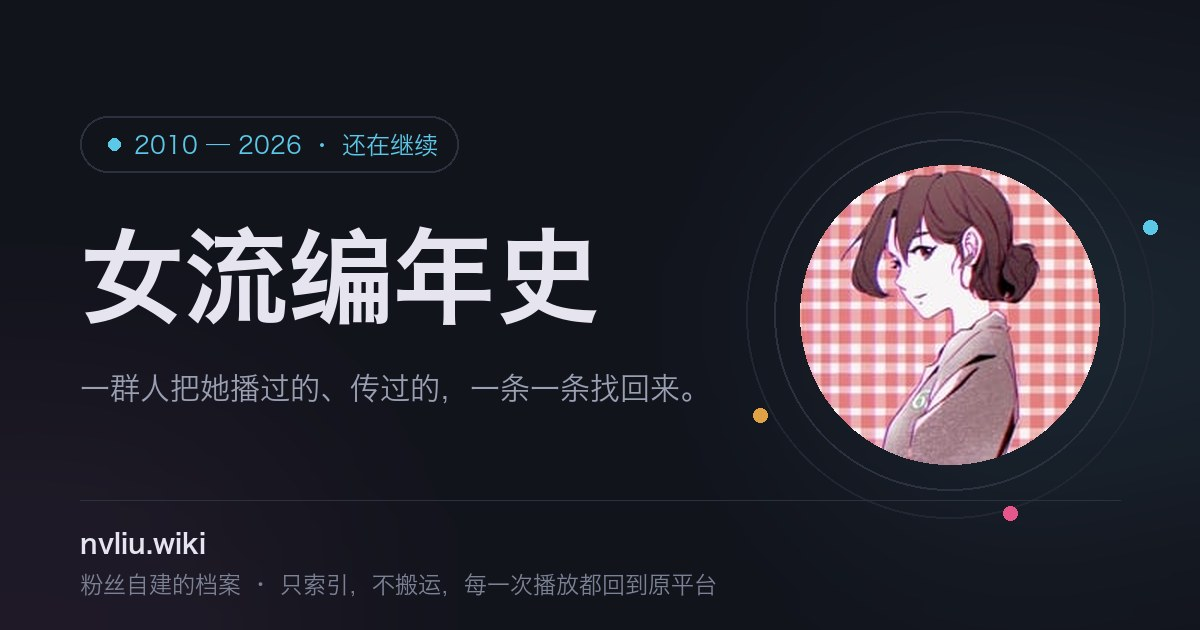
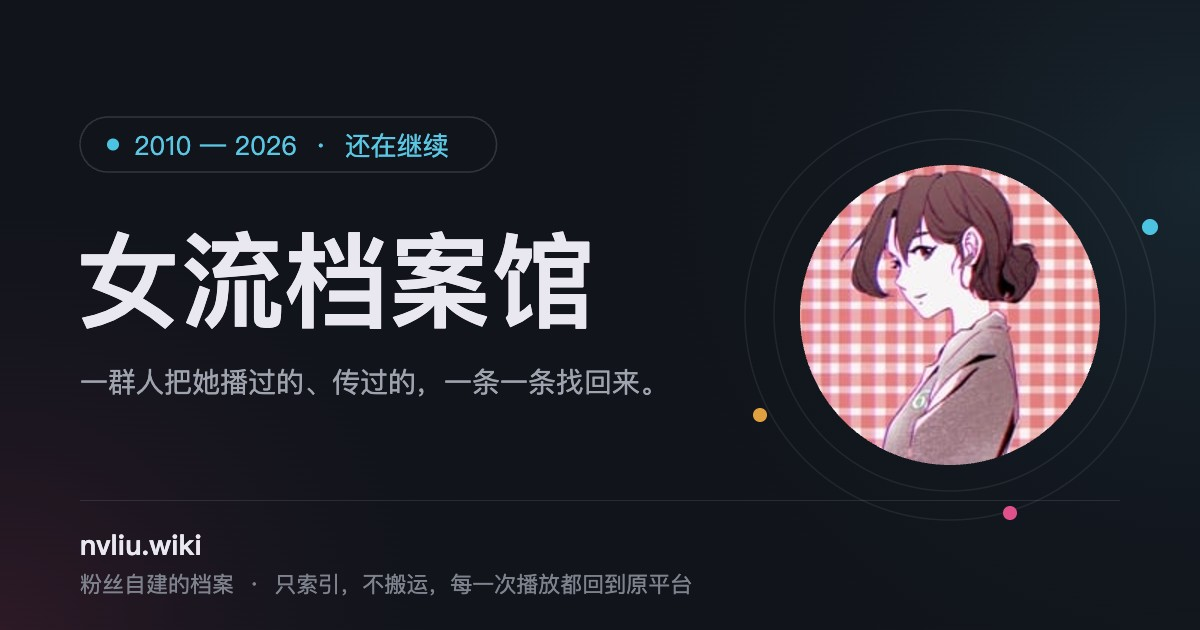
feat(brand): 站名改为「女流档案馆」，改由后台站点标题驱动
「女流编年史」作为站名过于郑重，像在为本人修史；站点实际是整理公开资料的
非官方数字档案。编年史 / Chronicle 栏目名不变，域名、路由、数据 schema 不变。

- 站名基线 SITE_NAME 与 site-copy 的 site.title 改为「女流档案馆」
- 页头、手机菜单、直播状态胶囊改读 site.title（后台改名即时生效）
- <title> 模板、og:site_name、分享卡片标题读发布时冻结的后台站名（site-name-build.ts）
- 默认分享图按新站名重画；没单独设图的页面改用首页分享图，后台可按新站名重新生成
- 站点简介改为「关于女流66的非官方数字档案馆……」
- README 写明站名与栏目名的区别

diff --git a/src/lib/page-metadata.ts b/src/lib/page-metadata.ts
@@ -1,6 +1,6 @@
 import type { Metadata } from 'next'
 import { siteUrl } from './site-url'
-import { SITE_NAME } from './site-name'
+import { BUILD_SITE_NAME } from './site-name-build'
 import type { ShareImage } from './share-image'
 import { getShareCardDescription, getShareCardImage } from './share-cards'
 
@@ -10,7 +10,7 @@ import { getShareCardDescription, getShareCardImage } from './share-cards'
  *
  * 从前只有 canonical 是各页自己写的，`title` 与 `description` 全都继承根 layout 的
  * 那一份——于是 `/chronicle/`、`/archive/`、`/games/` 的浏览器标签、收藏夹条目、
- * 搜索结果标题一字不差，全是「女流编年史」。同时全站一个 `og:` 标签都没有，
+ * 搜索结果标题一字不差，全是站名。同时全站一个 `og:` 标签都没有，
  * 链接贴到微信 / 微博 / QQ / B站动态里只会渲染成一条没有卡片的裸链。
  *
  * 这个函数把这四件事收在一处：给一个路径和一句人话，社交卡片自己长出来。
@@ -23,10 +23,11 @@ import { getShareCardDescription, getShareCardImage } from './share-cards'
  *
  * ## title 走根 layout 的 template
  *
- * 传进来的 `title` 是短名（「录播室」），根 layout 的 `%s · 女流编年史` 负责补站名。
+ * 传进来的 `title` 是短名（「录播室」），根 layout 的 `%s · 站名` 模板负责补站名。
  * `openGraph.title` 则要自己拼全称：社交卡片没有 template 这一层。
  */
-export { SITE_NAME }
+/** 构建期生效的站名：发布时冻结的后台站名，没有就是公开仓基线。 */
+export const SITE_NAME = BUILD_SITE_NAME
 
 /**
  * 站点级简介与分享卡片图的兜底值。
@@ -37,11 +38,12 @@ export { SITE_NAME }
  * 只是给 share-cards.ts 在两份数据文件缺失时兜底，同时也是这两份文件最初的取值来源。
  */
 export const SITE_DESCRIPTION =
-  '2010 年至今的视频与直播索引。只收录链接，不搬运资源——每一次播放都回到原平台。'
+  '关于女流66的非官方数字档案馆：整理散落在互联网中的录播、游戏、故事与记忆。只收录链接，不搬运资源——每一次播放都回到原平台。'
 
 /**
  * 全站默认社交卡片图兜底。1200×630，暗色底 + 站名 + 一句人话，不放任何统计数字。
- * 每个页面都能在后台「分享卡片」页面单独设自己的图；没单独设过的页面用这张。
+ * 每个页面都能在后台「分享卡片」页面单独设自己的图；没单独设过的页面用首页那张，
+ * 首页也没设过才用这张。站名印在图上：后台改站名时可以按新站名重新生成首页那张。
  */
 export const OG_IMAGE = '/images/og/site.jpg'
 
@@ -85,12 +87,12 @@ export function pageMetadata({
   const url = siteUrl(path)
   const fullTitle = title ? `${title} · ${SITE_NAME}` : SITE_NAME
   const shareDescription = shareId ? getShareCardDescription(shareId, description) : description
-  const configured = shareId ? getShareCardImage(shareId, OG_IMAGE) : null
-  // 后台单独设过图 > 内容自己的封面 > 全站默认图。
+  const configured = shareId ? getShareCardImage(shareId, CURRENT_HOME_OG_IMAGE) : null
+  // 后台单独设过图 > 内容自己的封面 > 首页的分享图（后台改站名时会重新生成它）> 仓库里那张兜底图。
   const picked: ShareImage =
-    configured && configured !== OG_IMAGE
+    configured && configured !== CURRENT_HOME_OG_IMAGE
       ? { url: configured, width: 1200, height: 630 }
-      : (cover ?? { url: OG_IMAGE, width: 1200, height: 630 })
+      : (cover ?? { url: CURRENT_HOME_OG_IMAGE, width: 1200, height: 630 })
   return {
     ...(title ? { title } : {}),
     description,

diff --git a/src/components/LiveContentProvider.tsx b/src/components/LiveContentProvider.tsx
@@ -257,12 +257,17 @@ export function useSectionEnabled(sectionId: string): boolean {
  *
  * 所以按页分开处理：
  * - 首页的 `<title>` 本来就是站名，整句替换；
- * - 其余页面的标题形如「录播室 · 女流编年史」，只把 template 补上去的那个站名后缀
+ * - 其余页面的标题形如「录播室 · 女流档案馆」，只把 template 补上去的那个站名后缀
  *   换成后台的新站名，页面自己那半截原样保留；
  * - `<meta name="description">` 只在首页覆盖——别的页面都有自己的简介
  *   （`pageMetadata()` 的 description 是必填参数），站点级那句盖上去只会更不准。
  */
-export function LiveDocumentMeta() {
+export function LiveDocumentMeta({
+  bakedSiteName = SITE_NAME,
+}: {
+  /** 构建时写进 `<title>` 模板的站名（发布时冻结的后台站名）；认后缀要用它，不是公开仓基线。 */
+  bakedSiteName?: string
+}) {
   const { copy } = useLiveContent()
   const pathname = usePathname()
 
@@ -276,7 +281,7 @@ export function LiveDocumentMeta() {
         document.title = siteTitle
       } else {
         // 不用正则：站名里可能有正则元字符，而这里只需要一个后缀替换。
-        const suffix = ` · ${SITE_NAME}`
+        const suffix = ` · ${bakedSiteName}`
         if (document.title.endsWith(suffix)) {
           document.title = `${document.title.slice(0, -suffix.length)} · ${siteTitle}`
         }
@@ -287,7 +292,7 @@ export function LiveDocumentMeta() {
       const meta = document.querySelector('meta[name="description"]')
       if (meta) meta.setAttribute('content', copy.site.description)
     }
-  }, [copy, pathname])
+  }, [copy, pathname, bakedSiteName])
 
   return null
 }

diff --git a/src/lib/site-name.ts b/src/lib/site-name.ts
@@ -1,13 +1,16 @@
 /**
- * 站名常量。
+ * 站名的**公开仓基线**。
  *
- * 单独成一个文件，是因为**客户端组件也要用它**：根 layout 的 title template
- * （`%s · 女流编年史`）把这个字符串拼进了每一页的 `<title>`，`LiveDocumentMeta`
- * 在浏览器里改标题时需要认出并替换掉那个后缀。
+ * 当前生效的站名在后台「标题 · 导航 · 页头」的站点标题（site-copy 的 `site.title`）：
+ * - 页头、菜单、直播状态胶囊、浏览器标题在运行时读后台值（`useSiteCopy().site.title`）；
+ * - `<title>` 模板、og: / twitter: 这些构建期写死进 HTML 的，读发布时冻结的那份后台文案
+ *   （见 `site-name-build.ts`）。
+ * 这个常量只在两者都拿不到时兜底（本地离线构建、后台文案缺站名）。
  *
- * 不能直接从 `page-metadata.ts` 取——那个文件经 `share-cards.ts` 引入了 `node:fs`，
- * 是明确的服务端专用模块，被客户端组件 import 会把它拖进浏览器包里。
+ * 单独成一个文件，是因为**客户端组件也要用它**；`page-metadata.ts` 经 `share-cards.ts`
+ * 引入了 `node:fs`，是服务端专用模块，被客户端组件 import 会把它拖进浏览器包里。
  *
- * `page-metadata.ts` 再从这里 re-export，所以服务端那一侧的 import 路径不变。
+ * 注意与栏目名区分——「编年史 / Chronicle」是栏目，旧站名「女流编年史」改名后不再用作站名。
  */
-export const SITE_NAME = '女流编年史'
+export const SITE_NAME = '女流档案馆'
+

diff --git a/src/lib/site-name-build.ts b/src/lib/site-name-build.ts
@@ -1,0 +1,26 @@
+import { readBakedInput } from './baked-input'
+import { SITE_NAME } from './site-name'
+
+/**
+ * 构建期写进 HTML 的站名（服务端专用）。
+ *
+ * 根 layout 的 metadata 必须保持静态（见 layout.tsx 的说明：改成 generateMetadata 会让
+ * 两千多个条目页预渲染失败），所以这里不能 await 内容接口。发布构建总是带着
+ * `CONTENT_BAKE_FILE`——一份冻结、校验过 hash 的后台文案——同步读它就够了。
+ *
+ * 这样后台改了站名，下一次部署时 `<title>`、og:site_name、分享卡片标题都跟着变，
+ * 不需要再改代码。没有冻结文件（本地 dev / 离线构建）就用公开仓基线。
+ */
+function resolveBuildSiteName(): string {
+  const file = process.env.CONTENT_BAKE_FILE
+  if (!file) return SITE_NAME
+  try {
+    const content = readBakedInput(file, process.env.CONTENT_BAKE_SHA256 || '', process.env.SITE_ORIGIN || '')
+    return content.copy?.site.title.trim() || SITE_NAME
+  } catch {
+    // 冻结文件本身有问题时 baked-content 会让整次构建失败，这里不必重复报错。
+    return SITE_NAME
+  }
+}
+
+export const BUILD_SITE_NAME = resolveBuildSiteName()

diff --git a/src/components/LiveStatusIndicator.tsx b/src/components/LiveStatusIndicator.tsx
@@ -4,7 +4,7 @@ import { useCallback, useEffect, useMemo, useRef, useState } from 'react'
 import { createPortal } from 'react-dom'
 import Link from 'next/link'
 import { usePathname } from 'next/navigation'
-import { useSiteTexts } from './LiveContentProvider'
+import { useSiteCopy, useSiteTexts } from './LiveContentProvider'
 
 type LiveWindow = {
   sessions: number
@@ -144,6 +144,8 @@ function dayLabel(date: string) {
  * 但降级为中性「待确认」状态，不把旧结论冒充当前事实。
  */
 export function LiveStatusIndicator() {
+  // 站名以后台「标题 · 导航 · 页头」的站点标题为准，改了立即生效。
+  const siteName = useSiteCopy().site.title
   const t = useSiteTexts()
   const pathname = usePathname()
   const [snapshot, setSnapshot] = useState<LiveStatusSnapshot | null>(null)
@@ -390,7 +392,7 @@ export function LiveStatusIndicator() {
                 : 'border border-muted bg-transparent'
           }`} />
         </span>
-        <span>女流编年史</span>
+        <span>{siteName}</span>
       </button>
 
       {statusHint && !open && (

diff --git a/src/app/layout.tsx b/src/app/layout.tsx
@@ -63,7 +63,8 @@ export const metadata: Metadata = {
    */
   metadataBase: new URL(siteOrigin()),
   /**
-   * `template` 让子页只写短名（「录播室」）就能得到「录播室 · 女流编年史」。
+   * `template` 让子页只写短名（「录播室」）就能得到「录播室 · 女流档案馆」。
+   * 站名取发布时冻结的后台站名（`site-name-build.ts`），不是写死的。
    * `/e/[id]` 的标题自带日期与场次名，也走同一条 template，不要再自己拼站名。
    */
   title: { default: SITE_NAME, template: `%s · ${SITE_NAME}` },
@@ -157,7 +158,7 @@ export default async function RootLayout({ children }: { children: React.ReactNo
         */}
         <script dangerouslySetInnerHTML={{ __html: CONTENT_BOOT_SCRIPT }} />
         <LiveContentProvider initial={baked}>
-          <LiveDocumentMeta />
+          <LiveDocumentMeta bakedSiteName={SITE_NAME} />
           <SiteAnalytics />
           {/* 站内链接一律 prefetch={false}，由它按鼠标 / 焦点 / 触摸的指向补回预热。 */}
           <RouteIntentPrefetch />

diff --git a/src/components/SiteNav.tsx b/src/components/SiteNav.tsx
@@ -200,7 +200,7 @@ export function SiteNav({
       {!compact && (
         statusSlot
           ? <span data-live-status-slot className="flex h-11 min-w-[5.5rem] shrink-0 items-center" />
-          : <span className="flex h-11 shrink-0 items-center text-sm font-semibold tracking-tight text-ink">女流编年史</span>
+          : <span className="flex h-11 shrink-0 items-center text-sm font-semibold tracking-tight text-ink">{copy.site.title}</span>
       )}
 
       {/* 桌面：pill 行（保持原样） */}
@@ -271,7 +271,7 @@ export function SiteNav({
         >
           <div className="site-container-wide px-page pb-4 pt-2">
             <p className="px-3 pt-2 text-meta uppercase tracking-[0.16em] text-faint">
-              女流编年史 · Menu
+              {copy.site.title} · Menu
             </p>
             <ul className="mt-1">
               {items.map((item) => {

diff --git a/src/lib/site-copy.ts b/src/lib/site-copy.ts
@@ -90,8 +90,8 @@ export type SiteCopy = {
 export const SITE_COPY: SiteCopy = {
   version: 1,
   site: {
-    title: '女流编年史',
-    description: '2010 年至今的视频与直播索引。',
+    title: '女流档案馆',
+    description: '关于女流66的非官方数字档案馆，整理散落在互联网中的录播、游戏、故事与记忆。',
   },
   nav: [
     {

diff --git a/README.md b/README.md
@@ -2,7 +2,7 @@
 
 **女流66（石悦）从 2010 年至今的视频、直播与相关资料索引。**
 
-网站：**https://nvliu.wiki/**
+网站：**https://nvliu.wiki/**（站名：**女流档案馆**，一个关于女流66的非官方数字档案馆；站内的「编年史 / Chronicle」是栏目名，不随站名改动）
 
 > **最后更新：2026-09-25**  
 > **当前阶段：补档 / 数字考古 / 来源复核 / 画廊整理**
